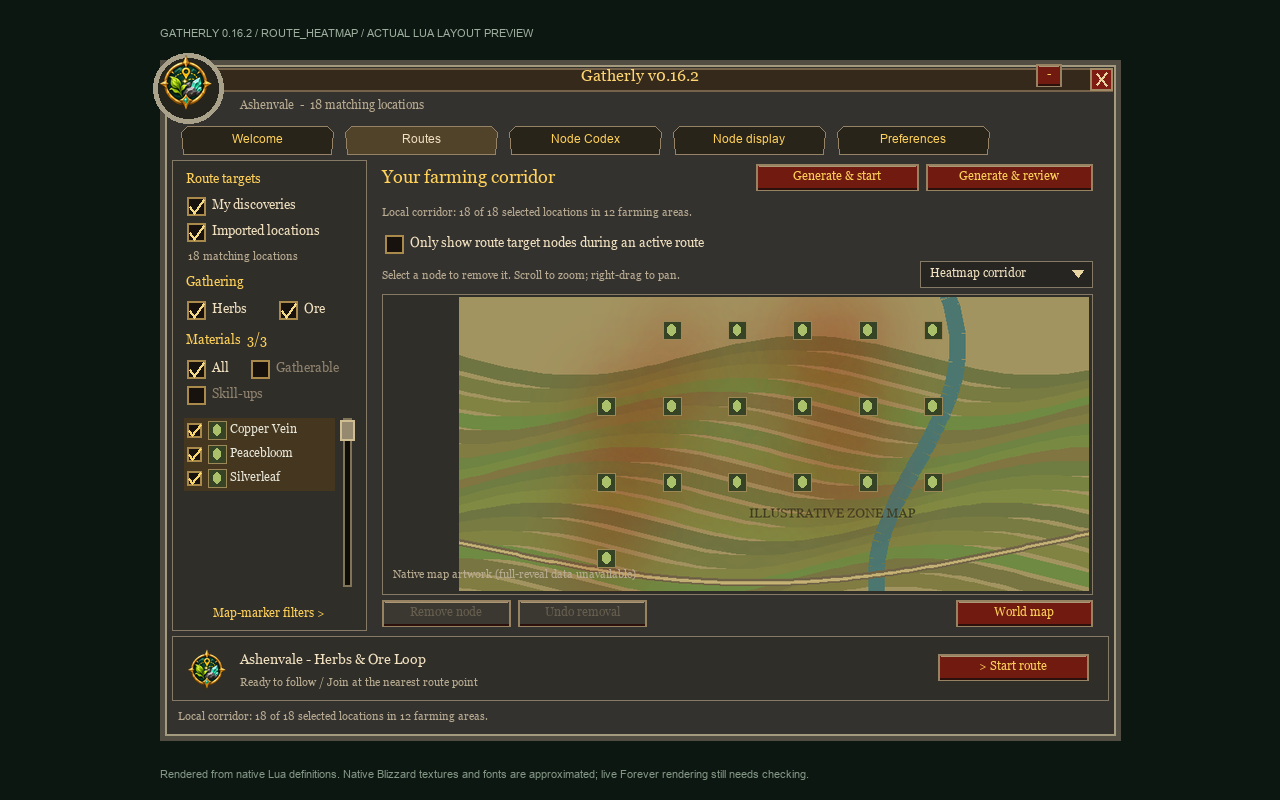
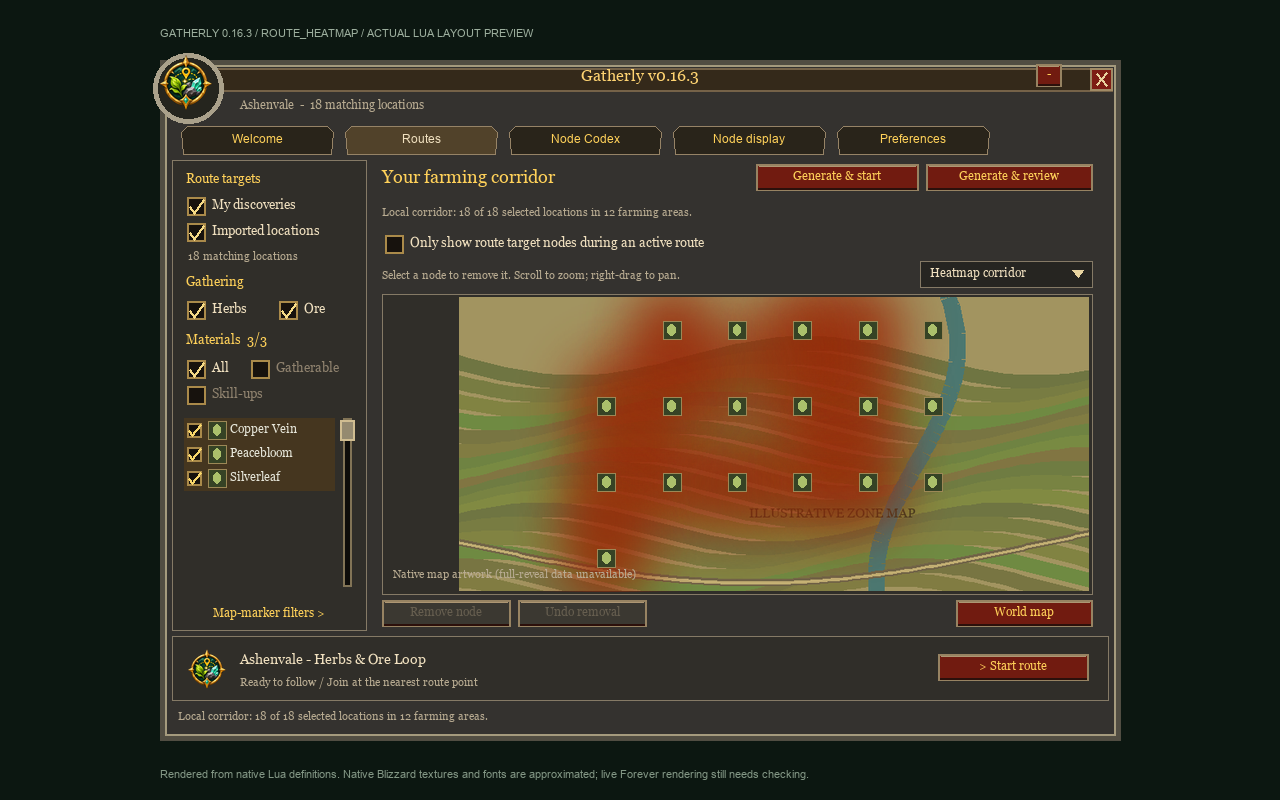
Fix faint world-map heat by weighting overlap with the visible texture

Changed region(s): [[0.4375, 0.3438, 0.7188, 0.75]]

diff --git a/tests/heatmap_visibility.py b/tests/heatmap_visibility.py
@@ -1,0 +1,61 @@
+"""Check the real heat texture composed with the Lua renderer's colours and alpha."""
+from pathlib import Path
+import os
+import sys
+
+root = Path(__file__).resolve().parents[1]
+sys.path.insert(0, str(root / '.test-deps'))
+from lupa.lua51 import LuaRuntime
+from PIL import Image
+
+os.chdir(root)
+lua = LuaRuntime(unpack_returned_tuples=True)
+lua.execute("dofile('tests/wow.lua');fakeUI();A={};assert(loadfile('Heatmap.lua'))('Gatherly',A)")
+texture = Image.open(root / 'Media/HeatBlob.tga').convert('RGBA')
+
+
+def draw(points, width=6000, height=4000):
+    route = lua.table_from({
+        'width': width, 'height': height,
+        'points': lua.table_from([lua.table_from({'x': x, 'y': y, 'density': d}) for x, y, d in points]),
+    })
+    pool = lua.table()
+    lua.globals().A.Heatmap.Draw(pool, lua.globals().UIParent, route,
+                               lambda p: (p.x * width, -p.y * height), lambda r: (r, r))
+    return list(pool.values())
+
+
+def opacity(textures, x, y):
+    transmission = 1.0
+    for t in textures:
+        _, _, _, cx, cy = list(t.point.values())
+        u, v = (x - cx) / t.width + .5, (y - cy) / t.height + .5
+        if 0 <= u < 1 and 0 <= v < 1:
+            alpha = texture.getpixel((int(u * texture.width), int(v * texture.height)))[3] / 255
+            transmission *= 1 - alpha * t.vertexColor[4]
+    return 1 - transmission
+
+
+fixtures = {
+    'straight': [(.1, .5, 1), (.9, .5, 1)],
+    'bend': [(.1, .5, 1), (.5, .5, 1), (.5, .2, 1)],
+    'dense crossing': [(.3, .3, 20), (.7, .7, 20), (.3, .7, 20), (.7, .3, 20)],
+}
+for name, points in fixtures.items():
+    textures = draw(points)
+    values = []
+    for a, b in zip(points, points[1:]):
+        for i in range(21):
+            f = i / 20
+            values.append(opacity(textures, (a[0] + (b[0] - a[0]) * f) * 6000,
+                                  -(a[1] + (b[1] - a[1]) * f) * 4000))
+    low, high = min(values), max(values)
+    print(f'World heat {name}: corridor opacity {low:.3f}-{high:.3f}')
+    assert low >= .55, f'{name}: heat corridor fades to {low:.3f}; hard to distinguish from terrain'
+    assert high <= .93, f'{name}: heat corridor obscures terrain at {high:.3f}'
+
+single = draw([(.5, .5, 1)])
+assert .7 <= opacity(single, 3000, -2000) <= .9
+assert opacity(single, 3120, -2000) == 0, 'Heat must fade to transparent outside its radius'
+assert opacity(single, 3108, -2000) < .05, 'Heat edges must stay soft'
+print('World heat: readable corridor and transparent edges verified with shipped TGA')

diff --git a/tools/render_ui_preview.py b/tools/render_ui_preview.py
@@ -35,7 +35,7 @@ CreateFrame=function(...)
  return f
 end
 WorldMapFrame:Hide()
-A={version='0.16.2'};for _,m in ipairs({'Store','Client','Resources','MarkerGroups','SkillTooltip','Selection','Atlas','ResourceLibrary','DifficultyProbe','Editor','Recorder','Corridor','Planner','FarmingSession','Follower','Heatmap','MiniHeat','MinimapPins','Map','Skin','PanelWindow','ScrollPanel','VirtualList','Dropdown','Data/MapReveal','MapOverlays','MapArt','GroupPicker','RouteSketch','RouteView','ResourceLibraryView','UIActions','FilterSidebar','WelcomeView','MarkerFiltersView','NodeDisplayView','PreferencesView','UI','Arrow','MinimapButton'}) do assert(loadfile(m..'.lua'))('Gatherly',A) end
+A={version='0.16.3'};for _,m in ipairs({'Store','Client','Resources','MarkerGroups','SkillTooltip','Selection','Atlas','ResourceLibrary','DifficultyProbe','Editor','Recorder','Corridor','Planner','FarmingSession','Follower','Heatmap','MiniHeat','MinimapPins','Map','Skin','PanelWindow','ScrollPanel','VirtualList','Dropdown','Data/MapReveal','MapOverlays','MapArt','GroupPicker','RouteSketch','RouteView','ResourceLibraryView','UIActions','FilterSidebar','WelcomeView','MarkerFiltersView','NodeDisplayView','PreferencesView','UI','Arrow','MinimapButton'}) do assert(loadfile(m..'.lua'))('Gatherly',A) end
 A.db=A.Store.Open();A.Client.Position=function() return {mapID=1,x=.2,y=.4} end
 A.Client.Size=function() return 1000,600 end
 A.Client.Distance=function(a,b) if not a or not b or a.mapID~=b.mapID then return end;return math.sqrt(((a.x-b.x)*1000)^2+((a.y-b.y)*600)^2) end
@@ -156,7 +156,7 @@ def render(scene):
         resolving.remove(k);boxes[k]=r;return r
     def visible(o):return o['shown'] is not False and (o['parent'] is None or ident(o['parent'])==0 or visible(o['parent']))
     im=Image.new('RGBA',(screen_w,screen_h),'#0c1711');d=ImageDraw.Draw(im)
-    d.text((160,27),'GATHERLY 0.16.2 / '+scene.upper()+' / ACTUAL LUA LAYOUT PREVIEW',font=ImageFont.truetype('C:/Windows/Fonts/arial.ttf',11),fill='#9cae9d')
+    d.text((160,27),'GATHERLY 0.16.3 / '+scene.upper()+' / ACTUAL LUA LAYOUT PREVIEW',font=ImageFont.truetype('C:/Windows/Fonts/arial.ttf',11),fill='#9cae9d')
     fonts={}; text_report=[]
     def font(o):
         size=int(o['fontSize'] or 12);family='georgia.ttf' if 'FRIZ' in (o['fontPath'] or '') else 'arial.ttf';key=(family,size)

diff --git a/tests/package.py b/tests/package.py
@@ -1,7 +1,7 @@
 from pathlib import Path
 import zipfile
 root = Path(__file__).resolve().parents[1]
-path = root / 'dist/Gatherly-0.16.2.zip'
+path = root / 'dist/Gatherly-0.16.3.zip'
 assert path.is_file(), 'Installable ZIP missing'
 with zipfile.ZipFile(path) as z:
     names = z.namelist()
@@ -11,7 +11,7 @@ with zipfile.ZipFile(path) as z:
     metadata = dict(line[3:].split(': ', 1) for line in toc.splitlines() if line.startswith('## '))
     assert metadata['Title'] == 'Gatherly'
     assert metadata['SavedVariables'] == 'GatherlyDB'
-    assert metadata['Version'] == '0.16.2'
+    assert metadata['Version'] == '0.16.3'
     assert metadata['X-License'] == 'MIT'
     assert metadata['IconTexture'] == r'Interface\AddOns\Gatherly\Media\Icon'
     for texture in ['Icon', 'LogoSheet', 'EmptyEmblem', 'NodeRing', 'NodeSquare', 'GuideArrow', 'HeatBlob', 'MinimapMasks']:

diff --git a/tests/run_tests.py b/tests/run_tests.py
@@ -1,5 +1,6 @@
 from pathlib import Path
 import os
+import runpy
 import sys
 
 root = Path(__file__).resolve().parents[1]
@@ -18,3 +19,5 @@ if toc.exists():
         assert (root / name).is_file(), name
         lua.execute('assert(loadfile(...))', str(root / name))
     print(f'TOC: {len(names)} files compile under Lua 5.1')
+
+runpy.run_path(str(root / 'tests/heatmap_visibility.py'), run_name='__main__')

diff --git a/tools/package.py b/tools/package.py
@@ -14,7 +14,7 @@ for name in files:
     assert (root / name).is_file(), f'Missing package file: {name}'
 dist = root / 'dist'
 dist.mkdir(exist_ok=True)
-path = dist / 'Gatherly-0.16.2.zip'
+path = dist / 'Gatherly-0.16.3.zip'
 with zipfile.ZipFile(path, 'w', zipfile.ZIP_DEFLATED) as z:
     for name in files:
         z.write(root / name, 'Gatherly/' + name)

diff --git a/README.md b/README.md
@@ -14,7 +14,7 @@ where resources grow, build farming routes and follow a clear in-game guide arro
 ![Tests](https://github.com/Red463/Gatherly/actions/workflows/ci.yml/badge.svg)
 ![MIT license](https://img.shields.io/badge/license-MIT-green.svg)
 
-**Current version:** 0.16.2 ? **Client interface:** 16001 ? **Command:** `/gatherly`
+**Current version:** 0.16.3 ? **Client interface:** 16001 ? **Command:** `/gatherly`
 
 ## What it does
 
@@ -47,7 +47,7 @@ where resources grow, build farming routes and follow a clear in-game guide arro
 Gatherly uses the **Gatherly** folder, **Gatherly.lua** saved-data file and
 **GatherlyDB** global. The only slash command is **/gatherly**.
 
-1. Download `Gatherly-0.16.2.zip` from
+1. Download `Gatherly-0.16.3.zip` from
    [Releases](https://github.com/Red463/Gatherly/releases/latest).
    Choose the addon ZIP asset rather than GitHub's automatic **Source code** ZIP.
 2. Close WoW and extract the `Gatherly` folder into your Forever

diff --git a/CHANGELOG.md b/CHANGELOG.md
@@ -1,5 +1,10 @@
 # Changelog
 
+## 0.16.3
+
+- Make the world-map heat corridor clearer by accounting for the actual faded heat texture when balancing overlapping patches. Keep soft edges and readable terrain at crossings; apply the same correction to the Routes preview.
+- Preserve minimap heat appearance. Add visibility checks that compose the shipped texture with the Lua renderer across straight sections, bends and dense crossings.
+
 ## 0.16.2
 
 - Move the active-route map-marker checkbox from Node display to Routes and rename it to “Only show route target nodes during an active route.”
